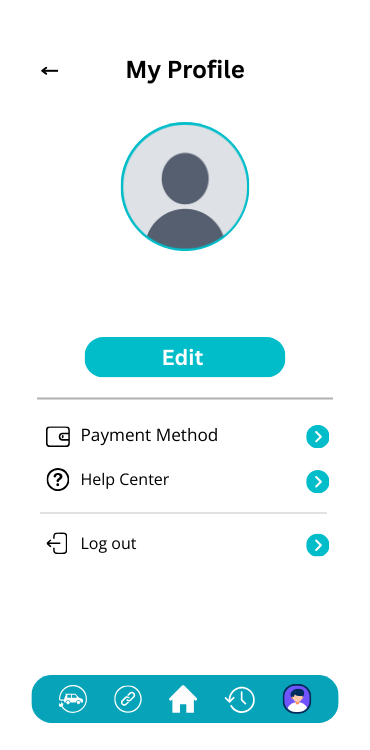
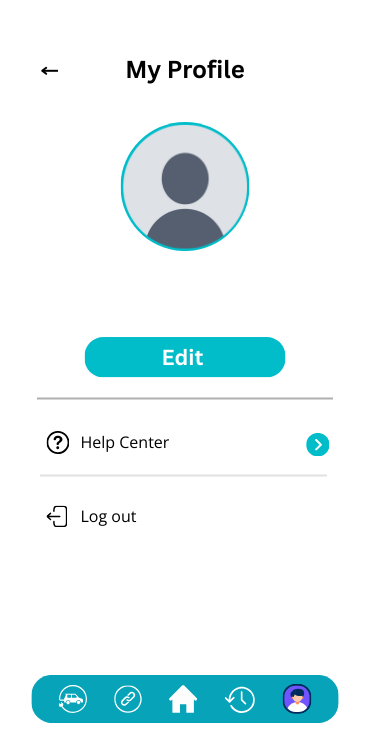
"Layout"

Changed region(s): [[0.1189, 0.552, 0.5946, 0.736], [0.8324, 0.552, 0.8919, 0.6747], [0.8324, 0.7053, 0.8919, 0.7667]]

diff --git a/src/main/java/cephra/Phone/Popups/InsufficientBalPOP.java b/src/main/java/cephra/Phone/Popups/InsufficientBalPOP.java
@@ -26,44 +26,44 @@ public class InsufficientBalPOP extends javax.swing.JPanel {
     // <editor-fold defaultstate="collapsed" desc="Generated Code">//GEN-BEGIN:initComponents
     private void initComponents() {
 
-        jButton1 = new javax.swing.JButton();
-        jLabel1 = new javax.swing.JLabel();
-        jLabel2 = new javax.swing.JLabel();
-        jLabel3 = new javax.swing.JLabel();
-        jButton2 = new javax.swing.JButton();
+        TopUpBTN = new javax.swing.JButton();
+        InsufficientCurrBal = new javax.swing.JLabel();
+        InsufficientRequiredAmount = new javax.swing.JLabel();
+        InsufficientShortage = new javax.swing.JLabel();
+        EXT = new javax.swing.JButton();
         ICON = new javax.swing.JLabel();
 
         setLayout(null);
 
-        jButton1.setBorder(null);
-        jButton1.setBorderPainted(false);
-        jButton1.setContentAreaFilled(false);
-        add(jButton1);
-        jButton1.setBounds(60, 293, 210, 35);
+        TopUpBTN.setBorder(null);
+        TopUpBTN.setBorderPainted(false);
+        TopUpBTN.setContentAreaFilled(false);
+        add(TopUpBTN);
+        TopUpBTN.setBounds(60, 293, 210, 35);
 
-        jLabel1.setFont(new java.awt.Font("Segoe UI", 1, 12)); // NOI18N
-        jLabel1.setHorizontalAlignment(javax.swing.SwingConstants.RIGHT);
-        jLabel1.setText("jLabel1");
-        add(jLabel1);
-        jLabel1.setBounds(180, 169, 100, 16);
+        InsufficientCurrBal.setFont(new java.awt.Font("Segoe UI", 1, 12)); // NOI18N
+        InsufficientCurrBal.setHorizontalAlignment(javax.swing.SwingConstants.RIGHT);
+        InsufficientCurrBal.setText("jLabel1");
+        add(InsufficientCurrBal);
+        InsufficientCurrBal.setBounds(180, 169, 100, 16);
 
-        jLabel2.setFont(new java.awt.Font("Segoe UI", 1, 12)); // NOI18N
-        jLabel2.setHorizontalAlignment(javax.swing.SwingConstants.RIGHT);
-        jLabel2.setText("jLabel2");
-        add(jLabel2);
-        jLabel2.setBounds(180, 193, 100, 16);
+        InsufficientRequiredAmount.setFont(new java.awt.Font("Segoe UI", 1, 12)); // NOI18N
+        InsufficientRequiredAmount.setHorizontalAlignment(javax.swing.SwingConstants.RIGHT);
+        InsufficientRequiredAmount.setText("jLabel2");
+        add(InsufficientRequiredAmount);
+        InsufficientRequiredAmount.setBounds(180, 193, 100, 16);
 
-        jLabel3.setFont(new java.awt.Font("Segoe UI", 1, 12)); // NOI18N
-        jLabel3.setHorizontalAlignment(javax.swing.SwingConstants.RIGHT);
-        jLabel3.setText("jLabel3");
-        add(jLabel3);
-        jLabel3.setBounds(180, 217, 100, 16);
+        InsufficientShortage.setFont(new java.awt.Font("Segoe UI", 1, 12)); // NOI18N
+        InsufficientShortage.setHorizontalAlignment(javax.swing.SwingConstants.RIGHT);
+        InsufficientShortage.setText("jLabel3");
+        add(InsufficientShortage);
+        InsufficientShortage.setBounds(180, 217, 100, 16);
 
-        jButton2.setBorder(null);
-        jButton2.setBorderPainted(false);
-        jButton2.setContentAreaFilled(false);
-        add(jButton2);
-        jButton2.setBounds(260, 30, 30, 30);
+        EXT.setBorder(null);
+        EXT.setBorderPainted(false);
+        EXT.setContentAreaFilled(false);
+        add(EXT);
+        EXT.setBounds(260, 30, 30, 30);
 
         ICON.setIcon(new javax.swing.ImageIcon(getClass().getResource("/cephra/Cephra Images/InsufficientBalPOP.png"))); // NOI18N
         add(ICON);
@@ -72,11 +72,11 @@ public class InsufficientBalPOP extends javax.swing.JPanel {
 
 
     // Variables declaration - do not modify//GEN-BEGIN:variables
+    private javax.swing.JButton EXT;
     private javax.swing.JLabel ICON;
-    private javax.swing.JButton jButton1;
-    private javax.swing.JButton jButton2;
-    private javax.swing.JLabel jLabel1;
-    private javax.swing.JLabel jLabel2;
-    private javax.swing.JLabel jLabel3;
+    private javax.swing.JLabel InsufficientCurrBal;
+    private javax.swing.JLabel InsufficientRequiredAmount;
+    private javax.swing.JLabel InsufficientShortage;
+    private javax.swing.JButton TopUpBTN;
     // End of variables declaration//GEN-END:variables
 }

diff --git a/src/main/java/cephra/Phone/RewardsWallet/WalletHistory.java b/src/main/java/cephra/Phone/RewardsWallet/WalletHistory.java
@@ -709,6 +709,8 @@ public class WalletHistory extends javax.swing.JPanel implements WalletHistoryUp
         setPreferredSize(new java.awt.Dimension(370, 750));
         setLayout(null);
 
+        closeButton.setBorder(null);
+        closeButton.setBorderPainted(false);
         closeButton.setContentAreaFilled(false);
         closeButton.setFocusPainted(false);
         closeButton.setRequestFocusEnabled(false);
@@ -718,57 +720,19 @@ public class WalletHistory extends javax.swing.JPanel implements WalletHistoryUp
             }
         });
         add(closeButton);
-        closeButton.setBounds(10, 60, 72, 30);
+        closeButton.setBounds(10, 60, 0, 30);
 
         mainHistoryContainer.setBackground(new java.awt.Color(255, 255, 255));
         mainHistoryContainer.setOpaque(false);
 
         historyScrollPane.setBackground(new java.awt.Color(255, 255, 255));
-        historyScrollPane.setBorder(javax.swing.BorderFactory.createLineBorder(new java.awt.Color(220, 220, 220)));
+        historyScrollPane.setBorder(null);
         historyScrollPane.setHorizontalScrollBarPolicy(javax.swing.ScrollPaneConstants.HORIZONTAL_SCROLLBAR_NEVER);
-        historyScrollPane.setVerticalScrollBarPolicy(javax.swing.ScrollPaneConstants.VERTICAL_SCROLLBAR_AS_NEEDED);
-        historyScrollPane.setOpaque(true);
-        historyScrollPane.getVerticalScrollBar().setUnitIncrement(16);
-        
-        // Hide the scrollbar completely
-        JScrollBar verticalScrollBar = historyScrollPane.getVerticalScrollBar();
-        verticalScrollBar.setPreferredSize(new Dimension(0, 0));
-        verticalScrollBar.setUI(new javax.swing.plaf.basic.BasicScrollBarUI() {
-            @Override
-            protected void configureScrollBarColors() {
-                this.thumbColor = new Color(0, 0, 0, 0); // Transparent thumb
-                this.trackColor = new Color(0, 0, 0, 0); // Transparent track
-            }
-            
-            @Override
-            protected JButton createDecreaseButton(int orientation) {
-                JButton button = new JButton();
-                button.setPreferredSize(new Dimension(0, 0));
-                return button;
-            }
-            
-            @Override
-            protected JButton createIncreaseButton(int orientation) {
-                JButton button = new JButton();
-                button.setPreferredSize(new Dimension(0, 0));
-                return button;
-            }
-            
-            @Override
-            protected void paintTrack(Graphics g, JComponent c, Rectangle trackBounds) {
-                // Don't paint the track
-            }
-            
-            @Override
-            protected void paintThumb(Graphics g, JComponent c, Rectangle thumbBounds) {
-                // Don't paint the thumb
-            }
-        });
+        historyScrollPane.setVerticalScrollBarPolicy(javax.swing.ScrollPaneConstants.VERTICAL_SCROLLBAR_NEVER);
+        historyScrollPane.setOpaque(false);
 
         historyPanel.setBackground(new java.awt.Color(255, 255, 255));
         historyPanel.setLayout(new javax.swing.BoxLayout(historyPanel, javax.swing.BoxLayout.Y_AXIS));
-        // Set preferred size to allow for scrolling when content exceeds visible area
-        historyPanel.setPreferredSize(new Dimension(308, Short.MAX_VALUE));
         historyScrollPane.setViewportView(historyPanel);
 
         javax.swing.GroupLayout mainHistoryContainerLayout = new javax.swing.GroupLayout(mainHistoryContainer);
@@ -795,6 +759,7 @@ public class WalletHistory extends javax.swing.JPanel implements WalletHistoryUp
         history1.setBorder(javax.swing.BorderFactory.createMatteBorder(0, 0, 1, 0, new java.awt.Color(0, 0, 0)));
         history1.setLayout(null);
 
+        details.setBorder(null);
         details.setBorderPainted(false);
         details.setContentAreaFilled(false);
         details.addActionListener(new java.awt.event.ActionListener() {

diff --git a/src/main/java/cephra/Phone/Dashboard/Profile.java b/src/main/java/cephra/Phone/Dashboard/Profile.java
@@ -146,7 +146,7 @@ public class Profile extends javax.swing.JPanel {
             }
         });
         add(paymethod);
-        paymethod.setBounds(40, 410, 290, 40);
+        paymethod.setBounds(30, 610, 290, 40);
 
         back.setBorder(null);
         back.setBorderPainted(false);
@@ -194,7 +194,7 @@ public class Profile extends javax.swing.JPanel {
             }
         });
         add(logout);
-        logout.setBounds(40, 520, 290, 50);
+        logout.setBounds(40, 490, 290, 50);
 
         linkbutton.setBorder(null);
         linkbutton.setBorderPainted(false);
@@ -240,7 +240,7 @@ public class Profile extends javax.swing.JPanel {
             }
         });
         add(Help);
-        Help.setBounds(40, 460, 290, 40);
+        Help.setBounds(40, 420, 290, 40);
 
         Frame.setIcon(new javax.swing.ImageIcon(getClass().getResource("/cephra/Cephra Images/PfpDashboardFrame.png"))); // NOI18N
         add(Frame);

diff --git a/src/main/java/cephra/Phone/Popups/adsPhone.java b/src/main/java/cephra/Phone/Popups/adsPhone.java
@@ -47,11 +47,11 @@ public class adsPhone extends javax.swing.JPanel {
         jButton1.setBorderPainted(false);
         jButton1.setContentAreaFilled(false);
         add(jButton1);
-        jButton1.setBounds(305, 10, 40, 30);
+        jButton1.setBounds(260, 70, 30, 30);
 
         jLabel1.setIcon(new javax.swing.ImageIcon(getClass().getResource("/cephra/Cephra Images/adsPhone.png"))); // NOI18N
         add(jLabel1);
-        jLabel1.setBounds(10, 0, 350, 450);
+        jLabel1.setBounds(60, 70, 230, 300);
     }// </editor-fold>//GEN-END:initComponents
 
     private void setupCloseAction() {
